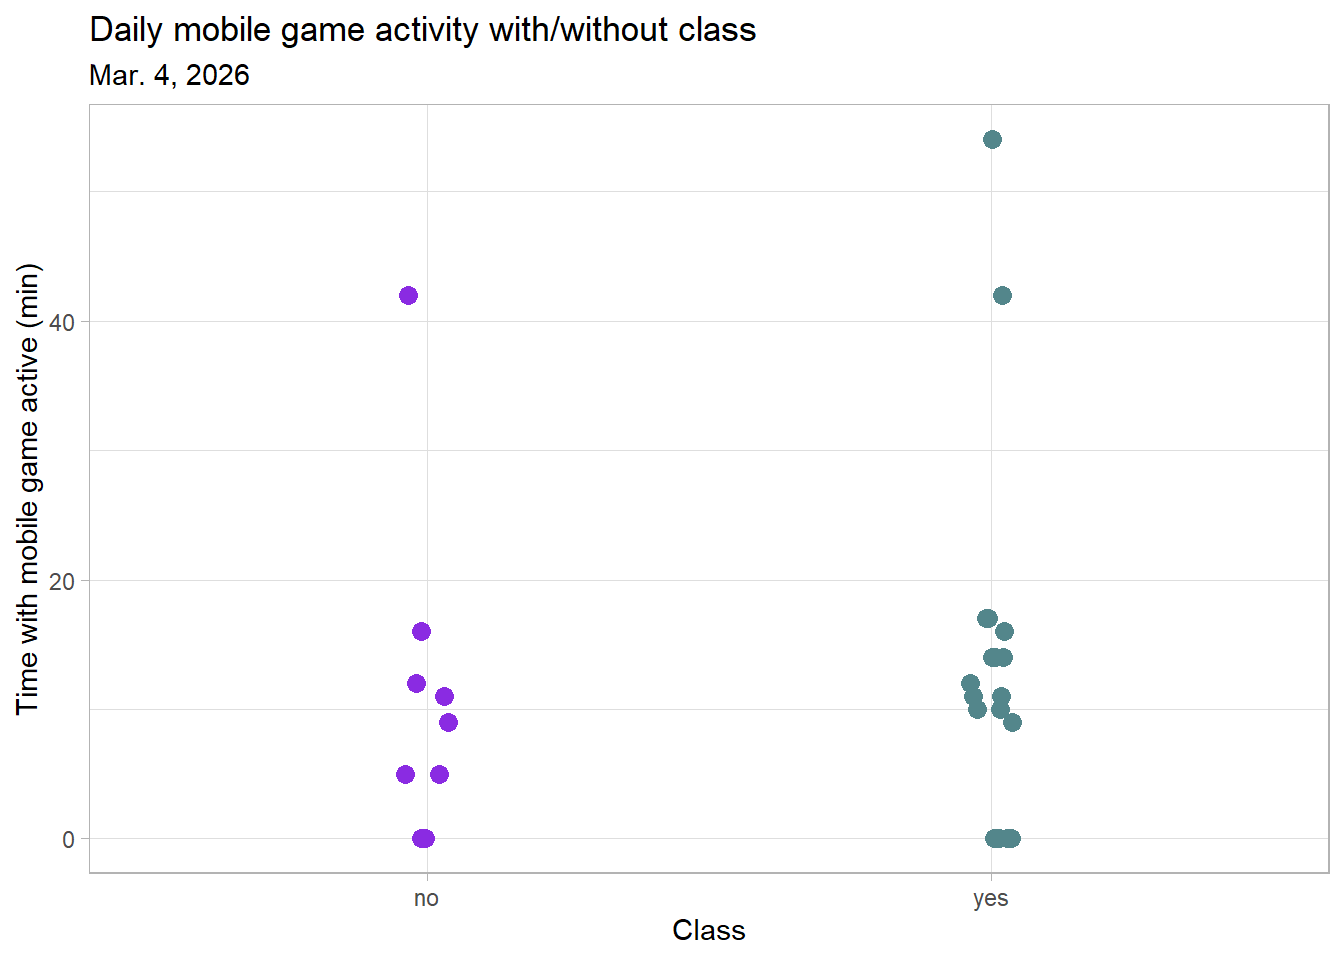
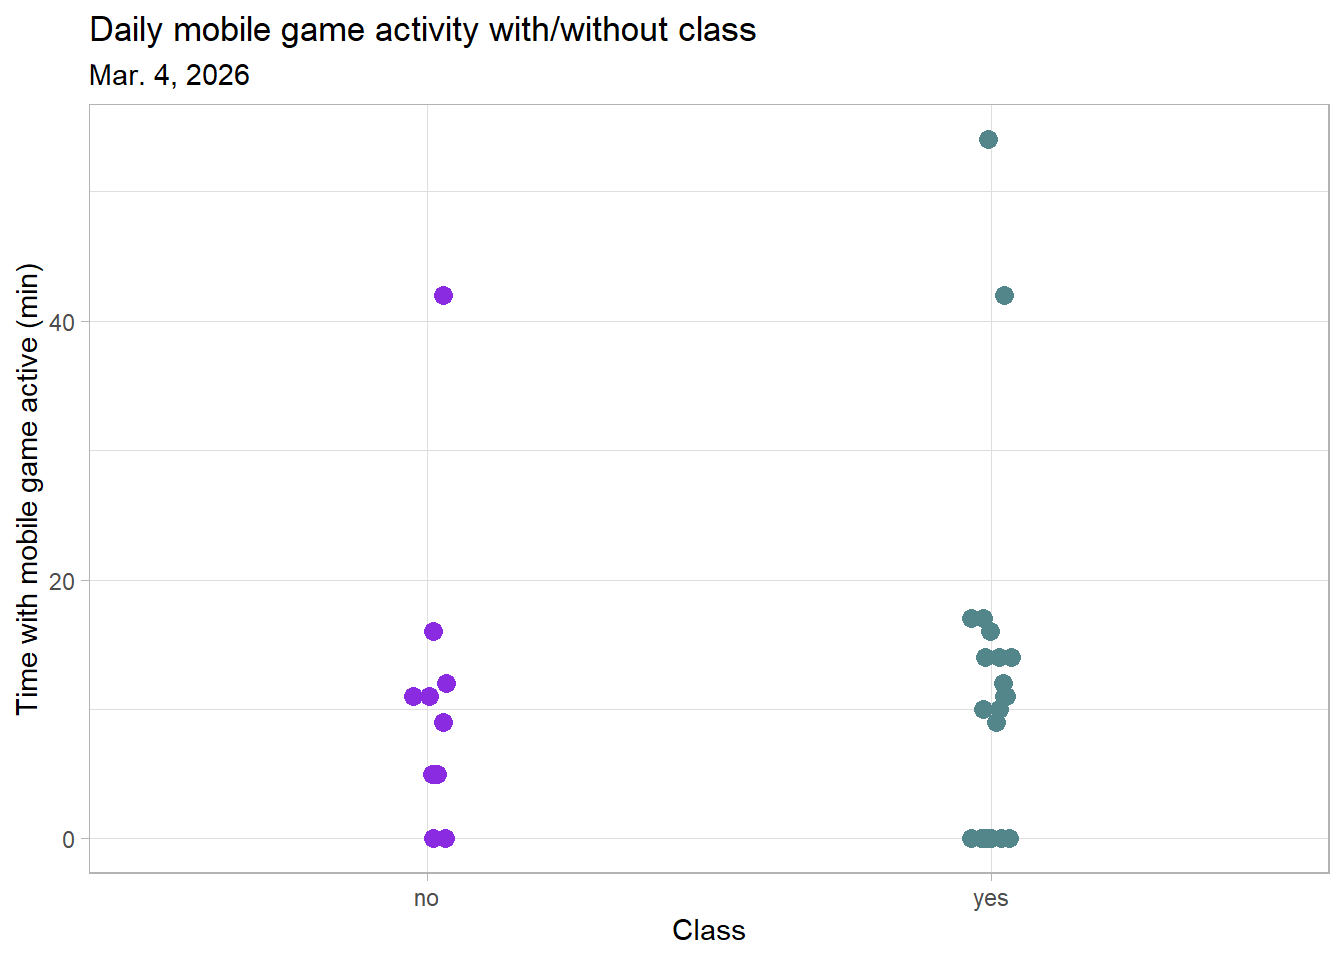
affective visualization, the rest

diff --git a/code/Quarto.html b/code/Quarto.html
@@ -314,15 +314,19 @@ sample estimates:
 <h1>Problem 3. Affective Visualization</h1>
 <section id="a.-2" class="level2">
 <h2 class="anchored" data-anchor-id="a.-2">a.</h2>
+<p>For my data, affective visualization can look like a drawing of one of the backgrounds from the mobile game with an element across the whole drawing to represent the points of the scatterplot. It would basically be the scatter plot of time spent visiting friends in relation to time with the game open, but as an art piece. I could also do a scatter plot of time spent at lecture compared to time with time spent on the game as another option, or I could combine the two and use different visual elements to represent them. A brainstorm I currently have is to do a darker scenic background with the points being fireflies or some sort of light.</p>
 </section>
 <section id="b.-2" class="level2">
 <h2 class="anchored" data-anchor-id="b.-2">b.</h2>
+<p><img src="images/clipboard-1370194075.jpeg" class="img-fluid" width="575"></p>
 </section>
 <section id="c.-1" class="level2">
 <h2 class="anchored" data-anchor-id="c.-1">c.</h2>
+<p><img src="images/clipboard-120674102.png" class="img-fluid" width="588"></p>
 </section>
 <section id="d.-1" class="level2">
 <h2 class="anchored" data-anchor-id="d.-1">d.</h2>
+<p>The art piece shows individual observations of the time I spend vising a friend’s place (in hours) on the “x-axis” compared to how much time I spent with my mobile game open that day (in minutes) on the “y-axis”, showing the relationship between the two. The main influence on my work is from the main illustrator of the mobile game that I play, Yana Toboso. I am replicating one of the in-game background illustrations through digital art on the app Procreate. My thought process behind why I chose this particular illustration as the points is because this specific background is of the player’s main “home” and is where many friends in the in-game story come and visit, which I relate to my data of me going and visiting friends.</p>
 </section>
 <section id="e.-1" class="level2">
 <h2 class="anchored" data-anchor-id="e.-1">e.</h2>
@@ -332,15 +336,20 @@ sample estimates:
 <h1>Problem 4.</h1>
 <section id="a.-3" class="level2">
 <h2 class="anchored" data-anchor-id="a.-3">a.</h2>
+<p>The statistical tests included in this paper are Analysis of variance (ANOVA) and Tukey HSD mean comparison. The response variable is carbon (C) stocks in MgCha-1. The predictor variable is wildfire risk mitigation treatment. They use these tests to answer the question of what mitigation treatment(s) is most effective in reducing wildfire emissions when a wildfire occurs while also minimizing excessive removal of long-term carbon storage.</p>
+<p><img src="images/clipboard-1848114590.jpeg" class="img-fluid"></p>
 </section>
 <section id="b.-3" class="level2">
 <h2 class="anchored" data-anchor-id="b.-3">b.</h2>
+<p>The figure pretty clearly represents their statistics involving a comparison of multiple means across multiple treatments, and it is ordered nicely to show a decrease in the response variable measured across the treatments. The x-axis being the treatment type while also organizing the different carbon-storing plants measured by the year it was surveyed is very clear. The bars themselves represent the means and the error bars represent the standard error, and the 2008 means rendered significantly different by the statistical tests are indicated by different letters.</p>
 </section>
 <section id="c.-2" class="level2">
 <h2 class="anchored" data-anchor-id="c.-2">c.</h2>
+<p>The authors handled visual clutter pretty well, as the organization of treatments and years make it more digestible and not too overwhelming since it is a lot of data. The treatment types also being listed underneath in a vertical tilted style also helps so that it can still fit without being hard to read. There is a lot of data fit into this graph relating to several means of carbon stocks in different plants over two different years across multiple treatments, but there is not too much ink taking up the figure itself. The authors do use themed colors and hatching for the visualization, but the bars are pretty skinny and the legend is also kept at a reasonable size.</p>
 </section>
 <section id="d.-2" class="level2">
 <h2 class="anchored" data-anchor-id="d.-2">d.</h2>
+<p>To make the figure better, the authors could use more contrasting and brighter colors, especially for the 2008 mean bars, because the sections separating the plant type have all very dark colors and are somewhat hard to see as separated at first glance. A complimentary color could be used for the 2008 treatment bars to still be able to have more color contrast without being to similar to the 2002 bars. Also, there should be more emphasis on the treatments that resulted in statistically significant means other than just the letter labels above it, like bolded or starred treatment type names, or thicker outlined mean bars.</p>
 </section>
 </section>
 
